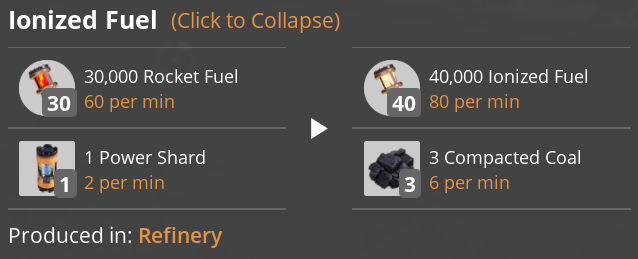
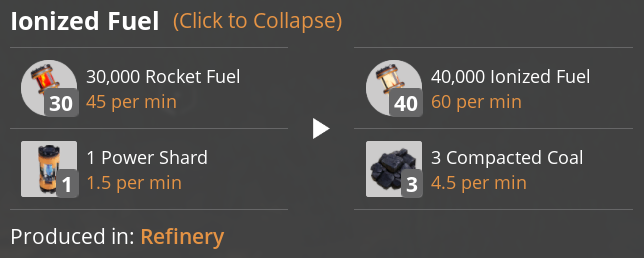
v1.0.4 revert Rocket Fuel basic recipe speed back to 100/min. Add screenshots and description to the fuel rebalance

diff --git a/readme.md b/readme.md
@@ -362,10 +362,37 @@ Note: You might need some extra Caterium.
 | ![Old recipe](https://github.com/ivanio-limited/RecipeRework/blob/main/Screenshots/OldRecipesScreenshots/SolidBiofuel.png?raw=true) | **+** | ![New recipe](https://github.com/ivanio-limited/RecipeRework/blob/main/Screenshots/NewRecipesScreenshots/MineralizedBiofuel.png?raw=true) |
 <br>
 
-<summary align="center"><h2>Ionized Fuel</h2></summary>
+<summary align="center"><h2>Rocket Fuel and Ionized Fuel</h2></summary>
 
-- **Work in progress**
+- **Analysis:** Let's compare each (Oil-based) fuel type to the next tier in terms of energy per m³ and conversion ratios (using basic recipes).
 
+<div align="center">
+
+| Ingredient → Product | Item (m³) ratio | Energy per m³ ratio |  Effective Energy Multiplier (EEM) |
+| :------------------: | :-------------: | :-----------------: | :--------------------------------: |
+|     Fuel → Turbo     |      6 : 5      |   750 MJ : 2000 MJ  |  5 × 2000 MJ / (6 × 750 MJ) = 2.22 |
+|    Turbo → Rocket    |      6 : 10     |  2000 MJ : 3600 MJ  |  10 × 3600 MJ / (6 × 2000 MJ) = 3  |
+|   Rocket → Ionized   |      1 : 1      |  3600 MJ : 5000 MJ  | 1 × 5000 MJ / (1 × 3600 MJ) = 1.39 |
+
+</div>
+
+- **Problem:** On the one hand, Rocket Fuel has by far the highest **EEM**, while Ionized Fuel has the lowest. Rocket Fuel also has the best Somersloopable fuel recipes, especially Nitro Rocket Fuel, giving you the greatest net power increase per Somersloop. The only exception is Dark-Ion Fuel, but its ratios are terrible to begin with, so I wouldn't consider it. The **EEM** is a mathematical way to quantify how much more power you can get (gross) by upgrading to the next fuel tier. That's why Rocket Fuel feels so powerful and desirable: it triples the energy output in exchange for a reasonable amount of Nitrogen Gas. You even get some Compacted Coal back! Meanwhile, Ionized Fuel increases energy output by just 1.39×. And that's before accounting for the power cost of producing Power Shards, which can actually make the net power output **negative**.
+
+- **Solution:** Balanced the EEMs by moderately nerfing Rocket Fuel and substantially buffing Ionized Fuel. Also adjusted the production speeds of both Ionized Fuel recipes to make them more viable for Somersloop boosting.
+
+
+<h3 align="center"> Rocket Fuel </h3>
+
+| Before | | After |
+|:---:|:---:|:---:|
+| ![Old recipe](https://github.com/ivanio-limited/RecipeRework/blob/main/Screenshots/OldRecipesScreenshots/RocketFuel.png?raw=true) | ➜ | ![New recipe](https://github.com/ivanio-limited/RecipeRework/blob/main/Screenshots/NewRecipesScreenshots/RocketFuel.png?raw=true) |
+<br>
+<h3 align="center"> Nitro Rocket Fuel </h3>
+
+| Before | | After |
+|:---:|:---:|:---:|
+| ![Old recipe](https://github.com/ivanio-limited/RecipeRework/blob/main/Screenshots/OldRecipesScreenshots/NitroRocketFuel.png?raw=true) | ➜ | ![New recipe](https://github.com/ivanio-limited/RecipeRework/blob/main/Screenshots/NewRecipesScreenshots/NitroRocketFuel.png?raw=true) |
+<br>
 <h3 align="center"> Ionized Fuel </h3>
 
 | Before | | After |
@@ -376,7 +403,7 @@ Note: You might need some extra Caterium.
 
 | Before | | After |
 |:---:|:---:|:---:|
-| ![Old recipe](https://github.com/ivanio-limited/RecipeRework/blob/main/Screenshots/OldRecipesScreenshots/DarkIonizedFuel.png?raw=true) | ➜ | ![New recipe](https://github.com/ivanio-limited/RecipeRework/blob/main/Screenshots/NewRecipesScreenshots/DarkIonizedFuel.png?raw=true) |
+| ![Old recipe](https://github.com/ivanio-limited/RecipeRework/blob/main/Screenshots/OldRecipesScreenshots/DarkIonFuel.png?raw=true) | ➜ | ![New recipe](https://github.com/ivanio-limited/RecipeRework/blob/main/Screenshots/NewRecipesScreenshots/DarkIonFuel.png?raw=true) |
 
 </details>
 
